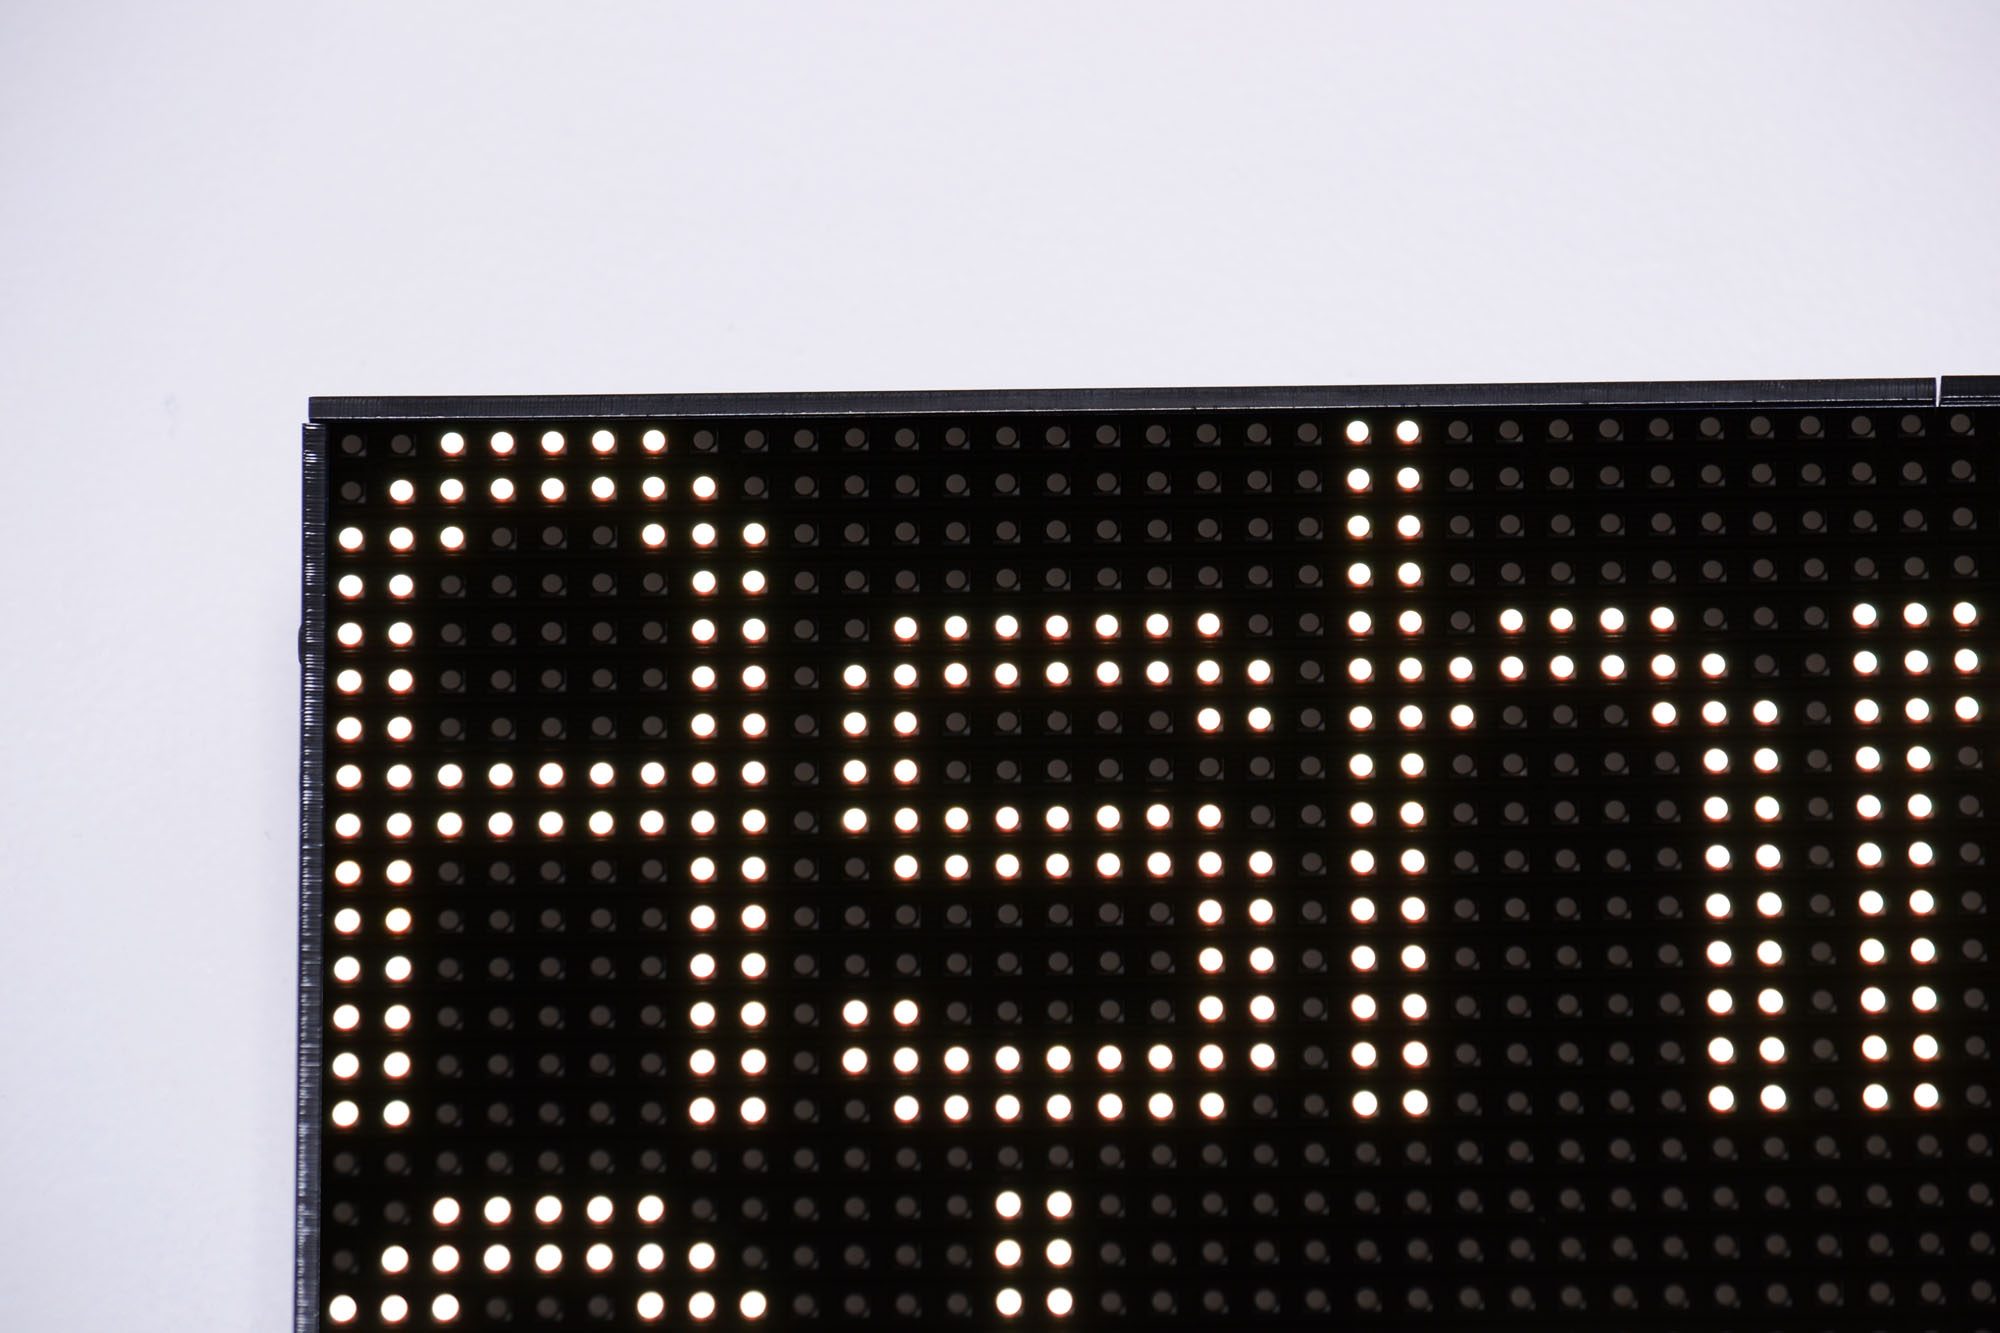
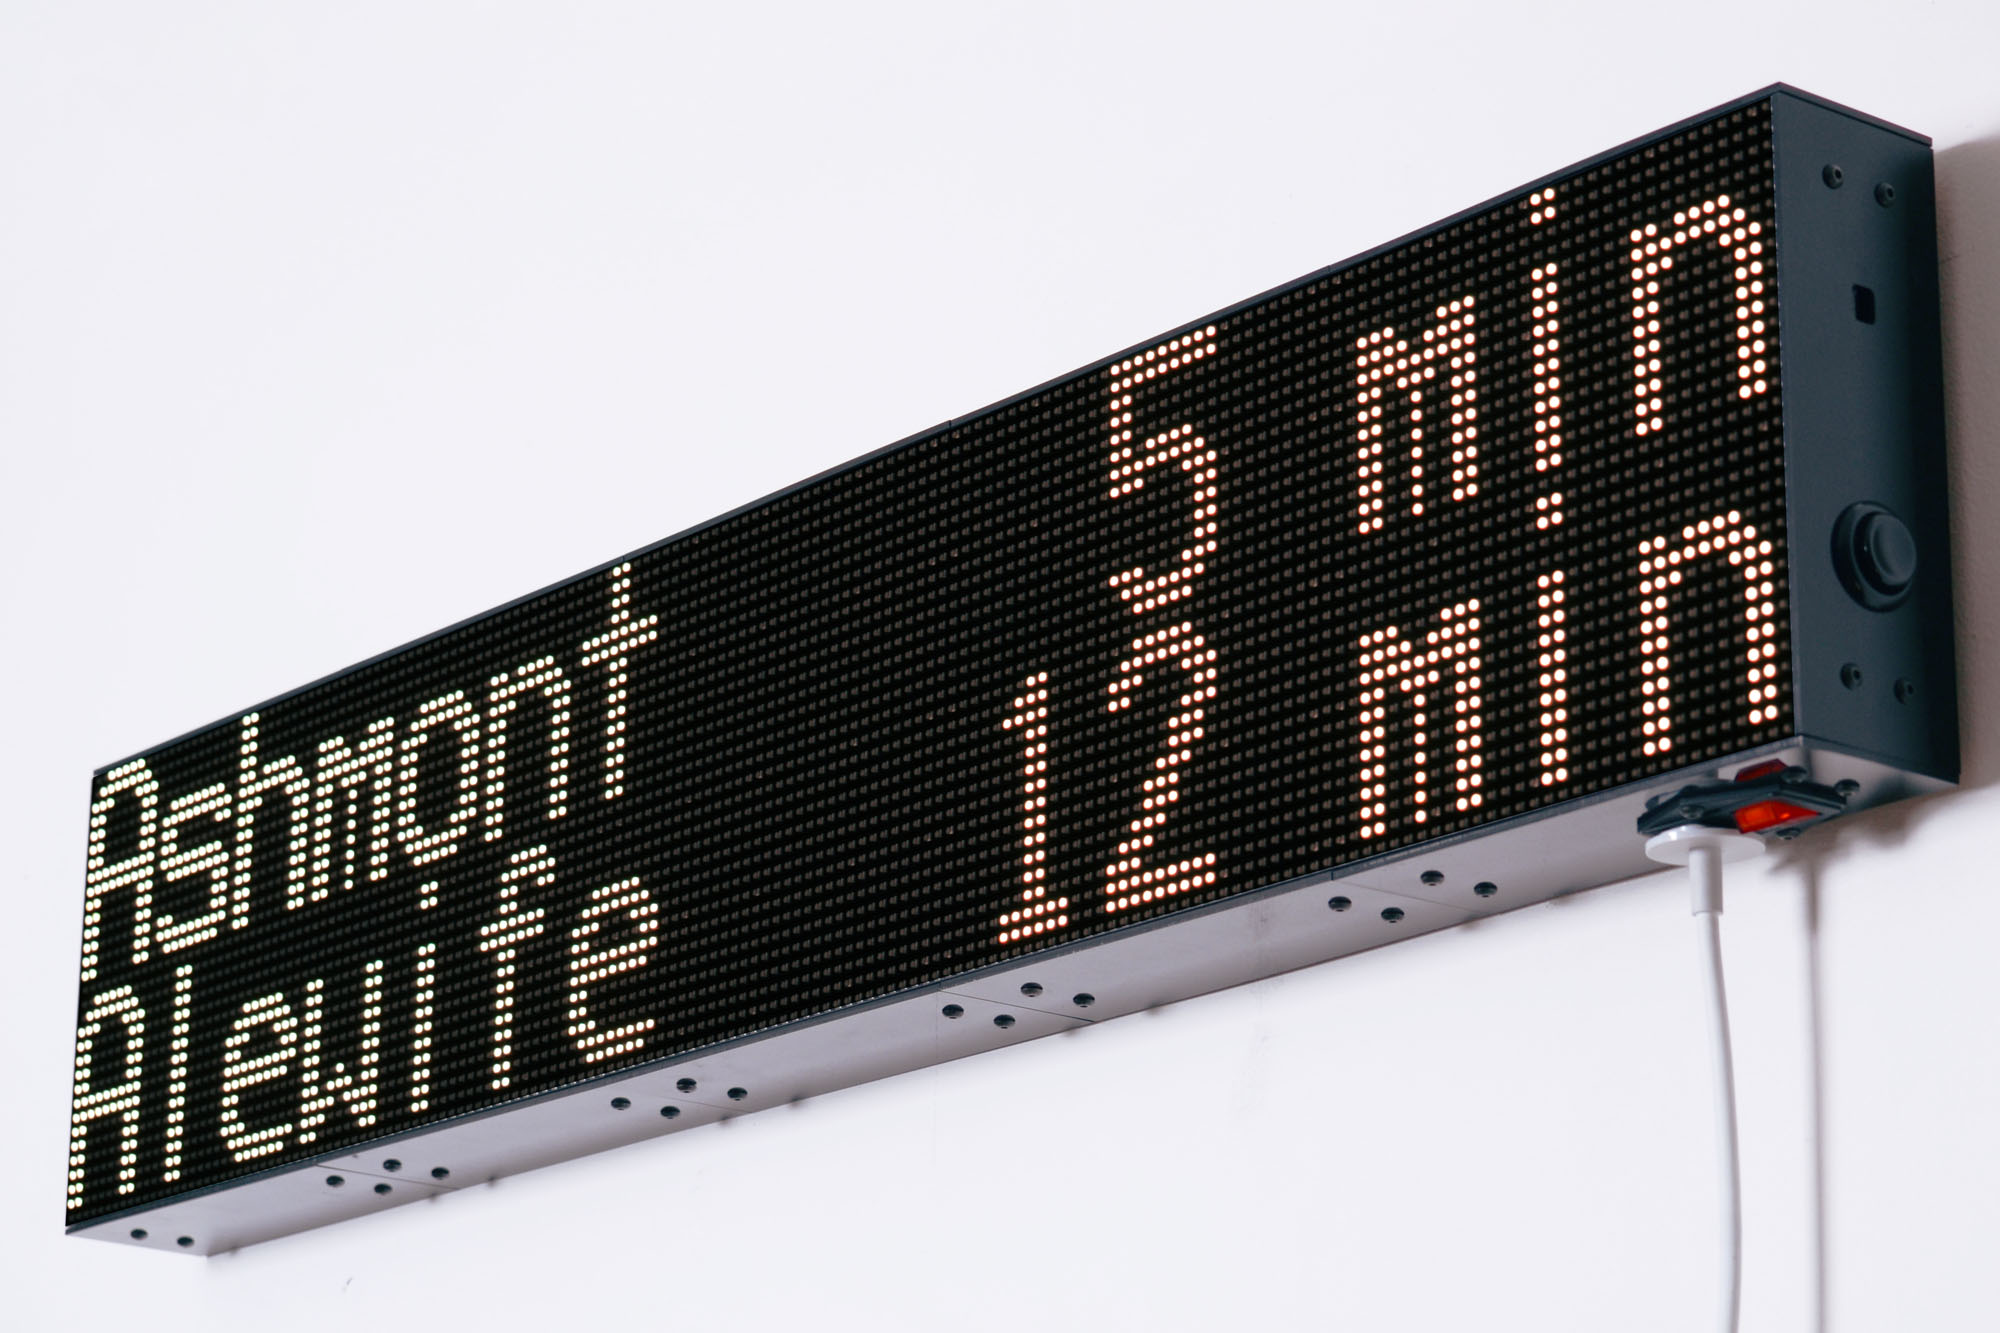
Update subway sign pics

diff --git a/public/projects/led-matrix/index.html b/public/projects/led-matrix/index.html
@@ -10,12 +10,13 @@
     </a>
   </p>
   <p>
-    The display shows a real-time view of the incoming trains at the Harvard
-    MBTA train stop. It's powered by five 32x32 dot matrix LED displays
-    daisy-chained together and controlled by an ESP32. The MBTA font was
+    The display shows a real-time view of the incoming trains for either New York or
+    Boston subway stops. It's powered by five 32x32 dot matrix LED displays
+    daisy-chained and controlled by a Rasbperry Pi. The MTA and MBTA fonts were
     faithfully re-created pixel-by-pixel from hundreds of reference pictures,
     along with the specific copy and timing of announcements. The final product
-    is an exact and functional replica of the MBTA's arrival board. The display
-    can alternatively show currently playing songs and album art from Spotify.
+    is an exact and functional replica of both the MTA's and MBTA's arrival
+    boards. The display can also show currently playing songs and album art from
+    Spotify.
   </p>
 {% endblock %}
